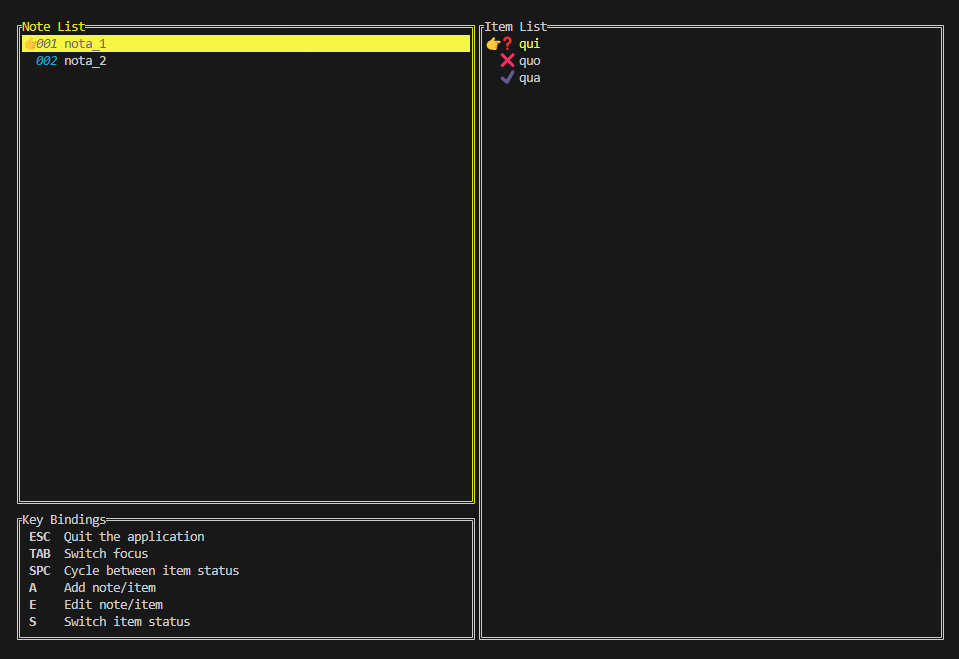
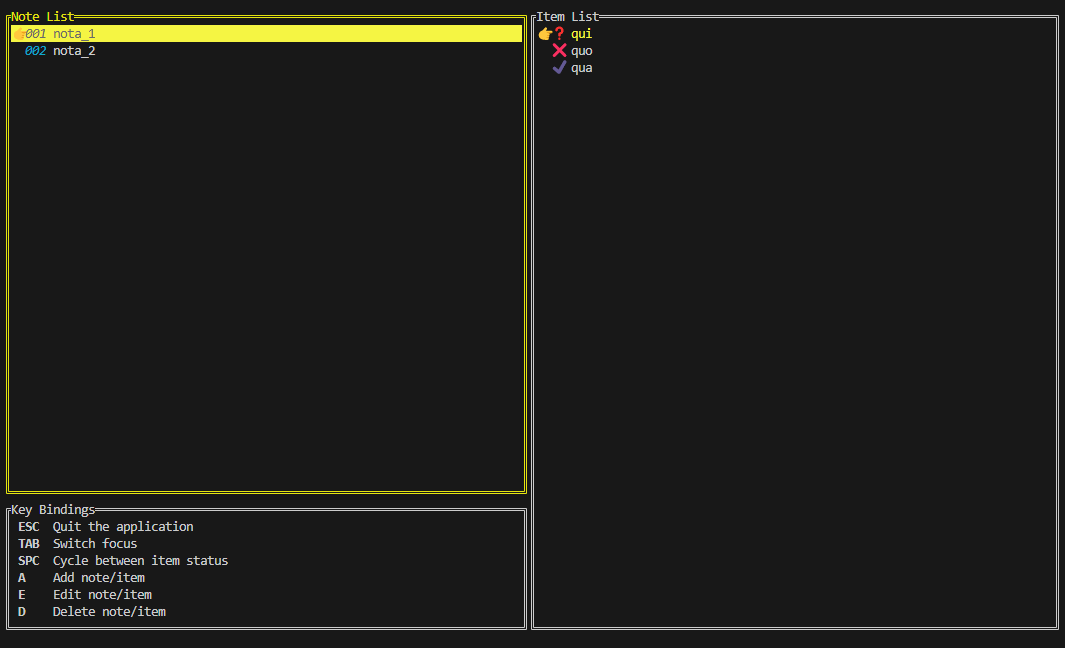
Label fix

Changed region(s): [[0.0, 0.0, 0.9979, 0.9877]]

diff --git a/src/components/mod.rs b/src/components/mod.rs
@@ -152,10 +152,6 @@ impl Default for ShortcutsLegend {
                         .add_col(TextSpan::from("    "))
                         .add_col(TextSpan::from("Edit note/item"))
                         .add_row()
-                        .add_col(TextSpan::from(" S").bold())
-                        .add_col(TextSpan::from("    "))
-                        .add_col(TextSpan::from("Switch item status"))
-                        .add_row()
                         .add_col(TextSpan::from(" D").bold())
                         .add_col(TextSpan::from("    "))
                         .add_col(TextSpan::from("Delete note/item"))
@@ -211,7 +207,7 @@ impl Component<Msg, AppEvent> for TodoList {
                 ..
             }) => Some(Msg::RemoveTodo),
             Event::Keyboard(KeyEvent {
-                code: Key::Char('s'),
+                code: Key::Char(' '),
                 ..
             }) => Some(Msg::SwitchTodoStatus),
             Event::Keyboard(KeyEvent { code: _, .. }) => self.maybe_scroll_todo_list(ev),
